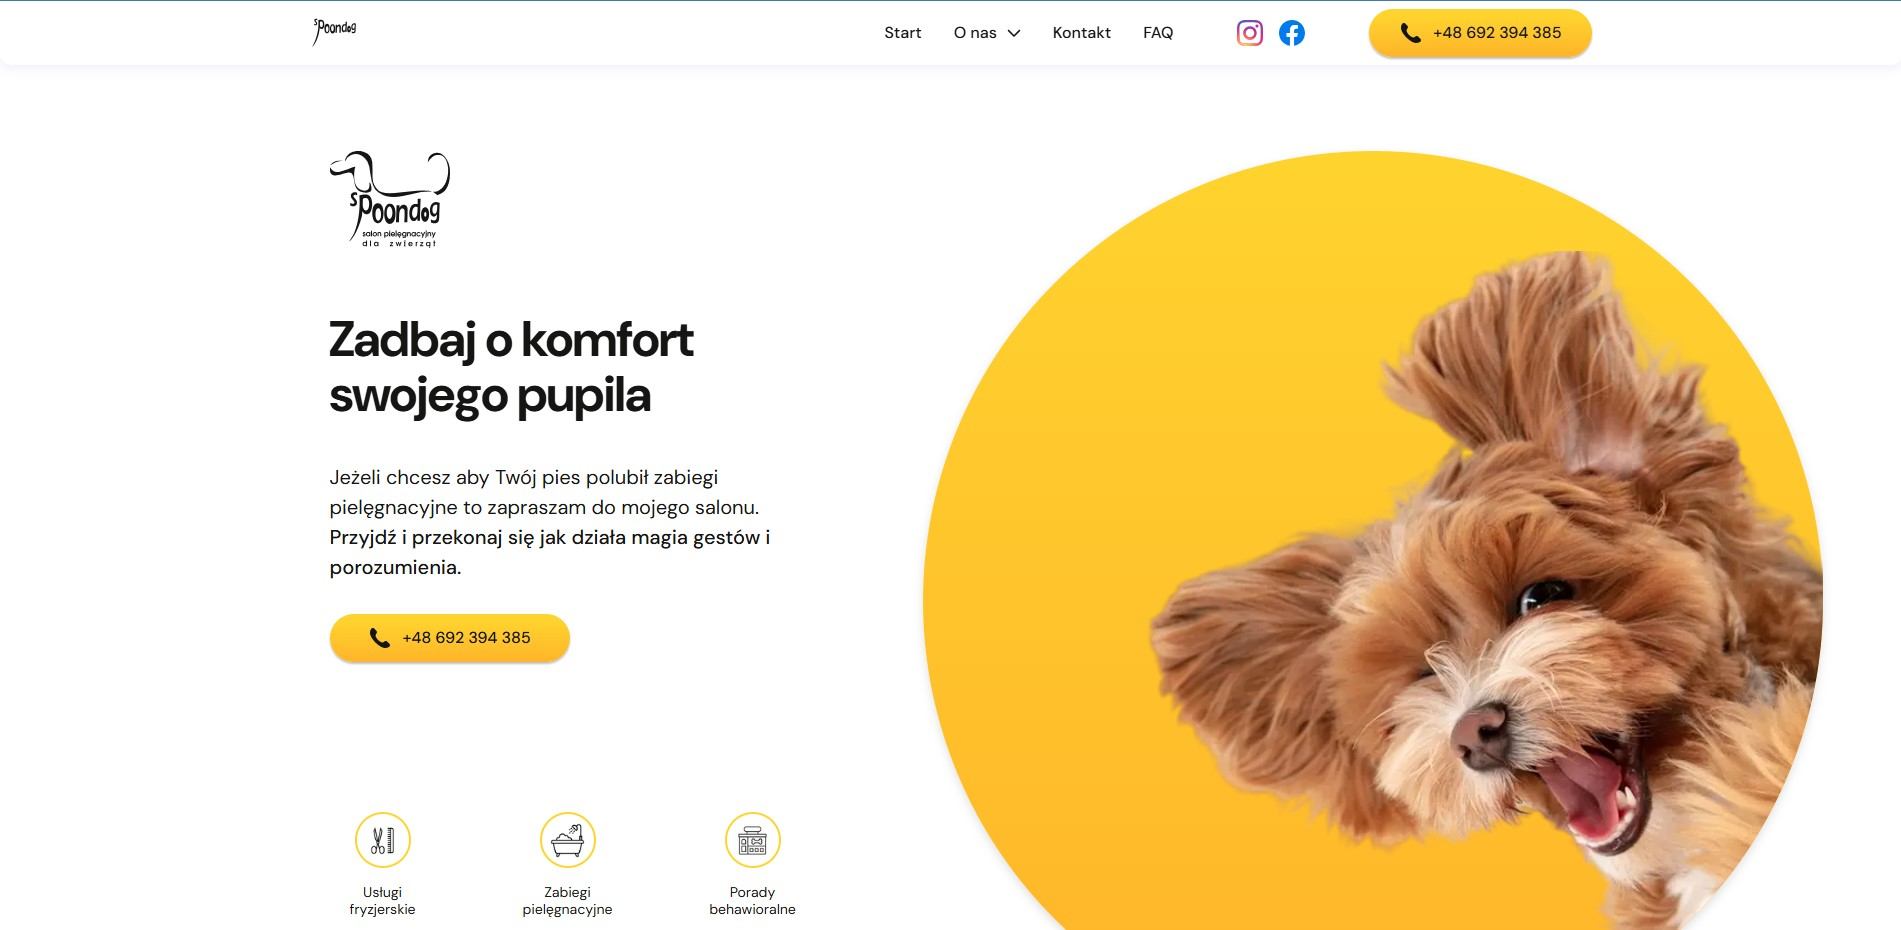
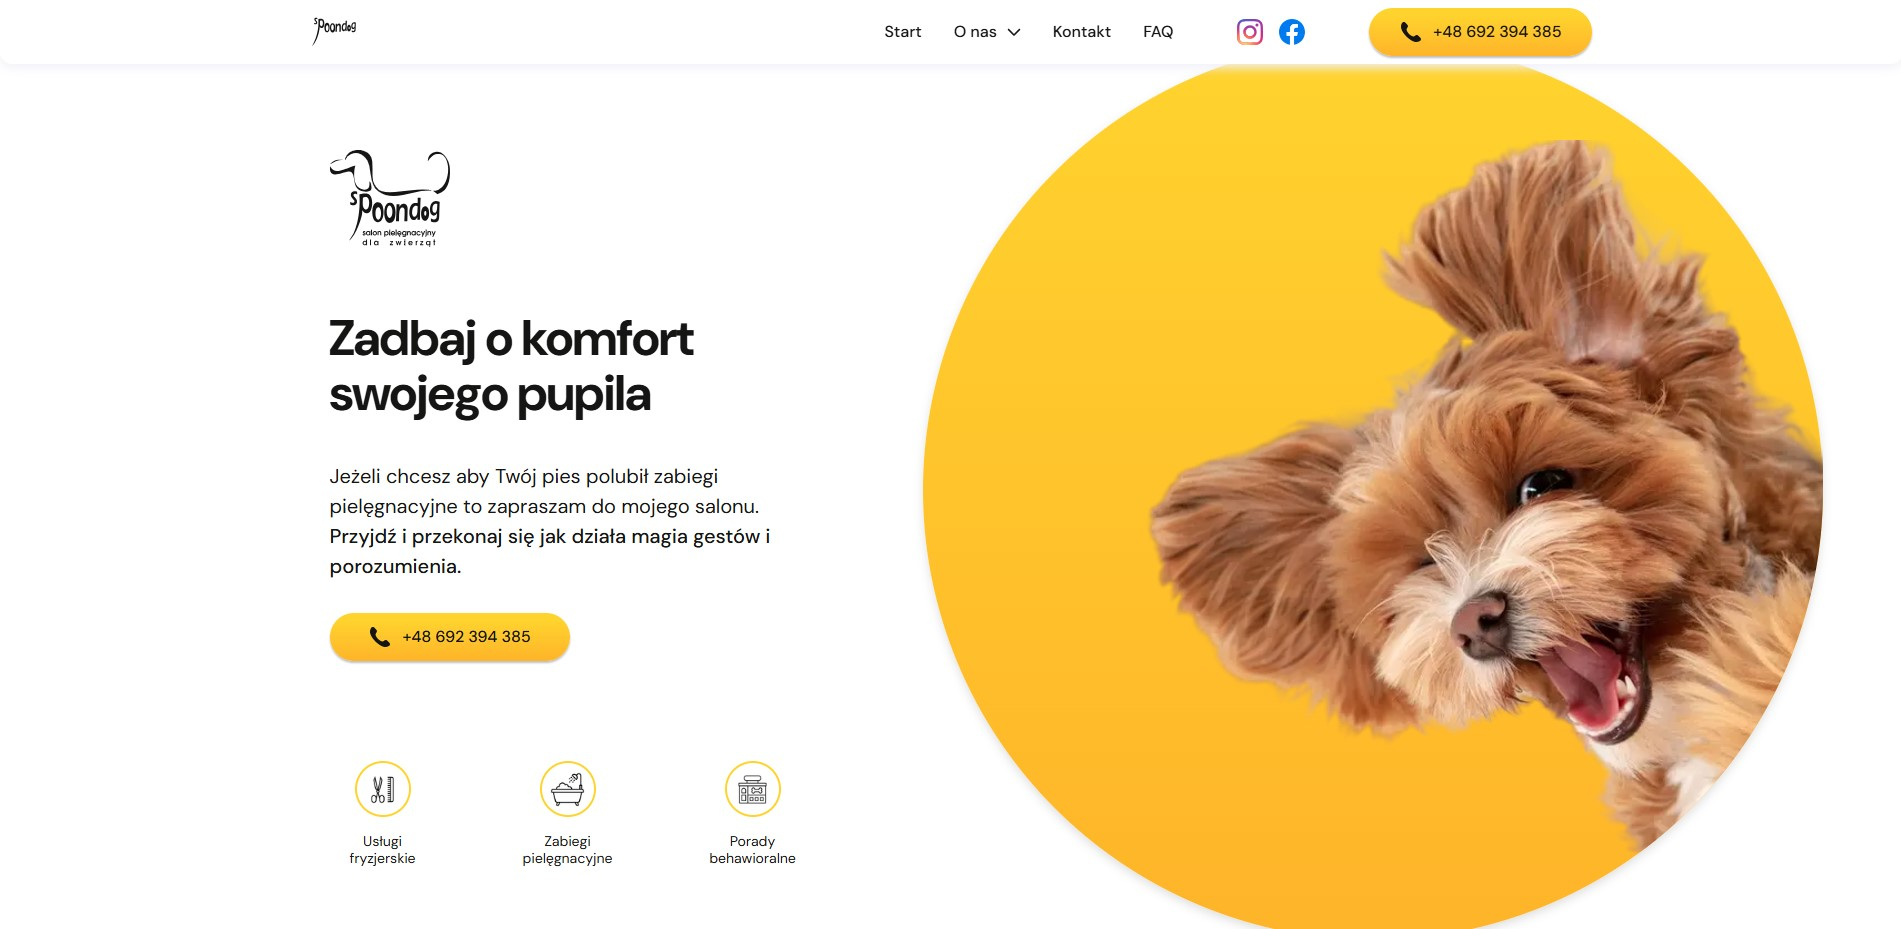
Dev (#67)
* test/merge for dev

* test/pr

* feat: added font sizes for desktop and mobile

* feat: created subheading, added styles for mobile and desktop

* fix: fixed image display and alignment with div, revised margins for mobile, improved text alignment

* fix: changed max-width to 390px to be consistent with the design

* feat: letter spacing and line height added, paragraph text changed

* fix: improved colors of headings and paragraphs

* feat: added higher resolution png file added

* fix: removed redundant file, replaced owner.png with better resolution file

* fix: improved image implementation

* fix: removed the previous button and implemented the Button component

* add static component ClickOnMe: title, img, icon

* fix: removed redundant text-sm class; improved alt to better describe image content

* feat: added new screen resolution for tablet view

* feat: added max width for tablet

* feat: added aria-label for Button component

* feat: added styles for tablet view

* fix: changed breakpoints to be compatible with custom tailwind configuration; improved padding to ensure correct display of arrows and to better reflect the design

* initial commit

button to be added,
mobile/tablet version to be added

* feat: gallery section on home page (#29)

* feat: create gallery section

Created reusable Swiper component. The component is used in the SwipperGallery component.
[…]

diff --git a/src/components/Hero/HeroImg.tsx b/src/components/Hero/HeroImg.tsx
@@ -3,20 +3,19 @@ import heroDog from "@images/heroDog.png";
 
 export const HeroImg = () => {
   return (
-    <div className="relative top-[80px] right-0 desktop:top-[10px] h-full max-h-[700px]">
-    <div className="absolute right-0 h-[288px] w-[306px] rounded-hero-radius bg-hero-bg shadow-hero-shadow tablet:h-[450px] tablet:w-[450px] desktop:h-[730px] desktop:w-[700px] xl:h-[900px] xl:w-[900px] xl:right-[80px] xl:rounded-hero-radius-big">
-      <div className="absolute bottom-0 right-0 h-[280px] w-[280px] -rotate-90 tablet:h-[430px] tablet:w-[430px] desktop:h-[700px] desktop:w-[700px] xl:h-[800px] xl:w-[800px] xl:right-[0px] xl:bottom-[0px] xl:rounded-hero-radius-dog overflow-hidden
-      ">
-        <Image
-          src={heroDog}
-          alt="Dog image"
-          fill
-          sizes="(max-width: 768px) 100vw, (min-width: 769px) 50vw"
-          priority
-          className="object-cover"
-        />
+    <div className="relative right-0 top-[80px] h-full max-h-[700px] desktop:-top-[100px]">
+      <div className="absolute right-0 h-[288px] w-[306px] rounded-hero-radius bg-hero-bg shadow-hero-shadow tablet:h-[450px] tablet:w-[450px] desktop:h-[730px] desktop:w-[700px] xl:right-[80px] xl:h-[900px] xl:w-[900px] xl:rounded-hero-radius-big">
+        <div className="absolute bottom-0 right-0 h-[280px] w-[280px] -rotate-90 overflow-hidden tablet:h-[430px] tablet:w-[430px] desktop:h-[700px] desktop:w-[700px] xl:bottom-[0px] xl:right-[0px] xl:h-[800px] xl:w-[800px] xl:rounded-hero-radius-dog">
+          <Image
+            src={heroDog}
+            alt="Dog image"
+            fill
+            sizes="(max-width: 768px) 100vw, (min-width: 769px) 50vw"
+            priority
+            className="object-cover"
+          />
+        </div>
       </div>
     </div>
-  </div>
   );
 };

diff --git a/src/components/Header/HeaderNavigation.tsx b/src/components/Header/HeaderNavigation.tsx
@@ -48,6 +48,13 @@ export const HeaderNavigation = ({
           >
             <div
               className="group flex cursor-pointer items-center gap-[10px]"
+              onMouseEnter={(event) => {
+                if (index === 1) {
+                  handleToggle(index, event);
+                } else if (onLinkClick) {
+                  onLinkClick(event);
+                }
+              }}
               onClick={(event) => {
                 if (index === 1) {
                   handleToggle(index, event);
@@ -75,7 +82,10 @@ export const HeaderNavigation = ({
               )}
             </div>
             {index === 1 && openIndex === index && (
-              <ul className="ml-[24px] w-auto bg-white pt-[12px] desktop:absolute desktop:z-50 desktop:ml-[12px] desktop:px-[8px] desktop:pt-[18px]">
+              <ul
+                className="ml-[24px] w-auto bg-white pt-[12px] desktop:absolute desktop:z-50 desktop:ml-[12px] desktop:px-[8px] desktop:pt-[18px]"
+                onMouseLeave={handleSubMenuLinkClick}
+              >
                 {aboutSubMenu.map((subItem, subIndex) => (
                   <li
                     key={subIndex}

diff --git a/src/components/Hero/HeroButtonBox.tsx b/src/components/Hero/HeroButtonBox.tsx
@@ -4,11 +4,11 @@ export const HeroButtonBox = () => {
   return (
     <div>
       <div className="h-auto w-[230px] text-center tablet:w-full">
-        <p className="mb-[26px] mt-[20px] block text-18 font-medium leading-[1.3] tracking-[-0.02em] tablet:mt-[20px]  desktop:hidden desktop:text-[22px] desktop:mt-[32px] xl:mt-[32px]">
+        <p className="mb-[26px] mt-[20px] block text-18 font-medium leading-[1.3] tracking-[-0.02em] tablet:mt-[20px] desktop:mt-[32px] desktop:hidden desktop:text-[22px] xl:mt-[32px]">
           Zadzwoń i umów się na wizytę już dziś!
         </p>
       </div>
-      <div className="mx-auto h-[42px] w-[243px] tablet:mb-[60px] desktop:mb-[156px] desktop:mx-0 xl:mb-[156px]">
+      <div className="mx-auto h-[42px] w-[243px] tablet:mb-[60px] desktop:mx-0">
         <PhoneButton content="+48 692 394 385" />
       </div>
     </div>

diff --git a/src/components/Hero/Hero.tsx b/src/components/Hero/Hero.tsx
@@ -11,9 +11,9 @@ export const Hero = () => {
         <HeroImg />
       </div>
       <Container>
-        <div className="h-auto w-full tablet:h-auto desktop:h-[873px] desktop:mt-[140px] xl:h-full">
-          <div className="flex flex-column">
-            <div className="tablet:h-auto desktop:h-[873px] flex-col">
+        <div className="h-auto w-full tablet:h-auto desktop:mt-[140px] desktop:h-[873px] xl:h-full">
+          <div className="flex-column flex">
+            <div className="flex-col tablet:h-auto desktop:h-[873px]">
               <HeroInfo />
             </div>
           </div>

diff --git a/src/components/Hero/HeroInfo.tsx b/src/components/Hero/HeroInfo.tsx
@@ -26,7 +26,7 @@ export const HeroInfo = () => {
       </div>
       <div className="mt-[20px] flex flex-col items-center justify-center gap-[60px] tablet:hidden desktop:mt-[32px] desktop:block desktop:items-start desktop:justify-end">
         <HeroButtonBox />
-        <div className="block tablet:hidden desktop:mt-[156px] desktop:block">
+        <div className="block tablet:hidden desktop:mt-[106px] desktop:block">
           <HeroIcons />
         </div>
       </div>

diff --git a/src/data/navigationHeaderData.ts b/src/data/navigationHeaderData.ts
@@ -1,6 +1,6 @@
 export const navigationHeaderData = [
   { href: "/", label: "Start" },
-  { href: "/#about", label: "O nas" },
+  { href: "", label: "O nas" },
   // { href: "/#price", label: "Cennik" },
   { href: "/#contact", label: "Kontakt" },
   { href: "/#faq", label: "FAQ" },
